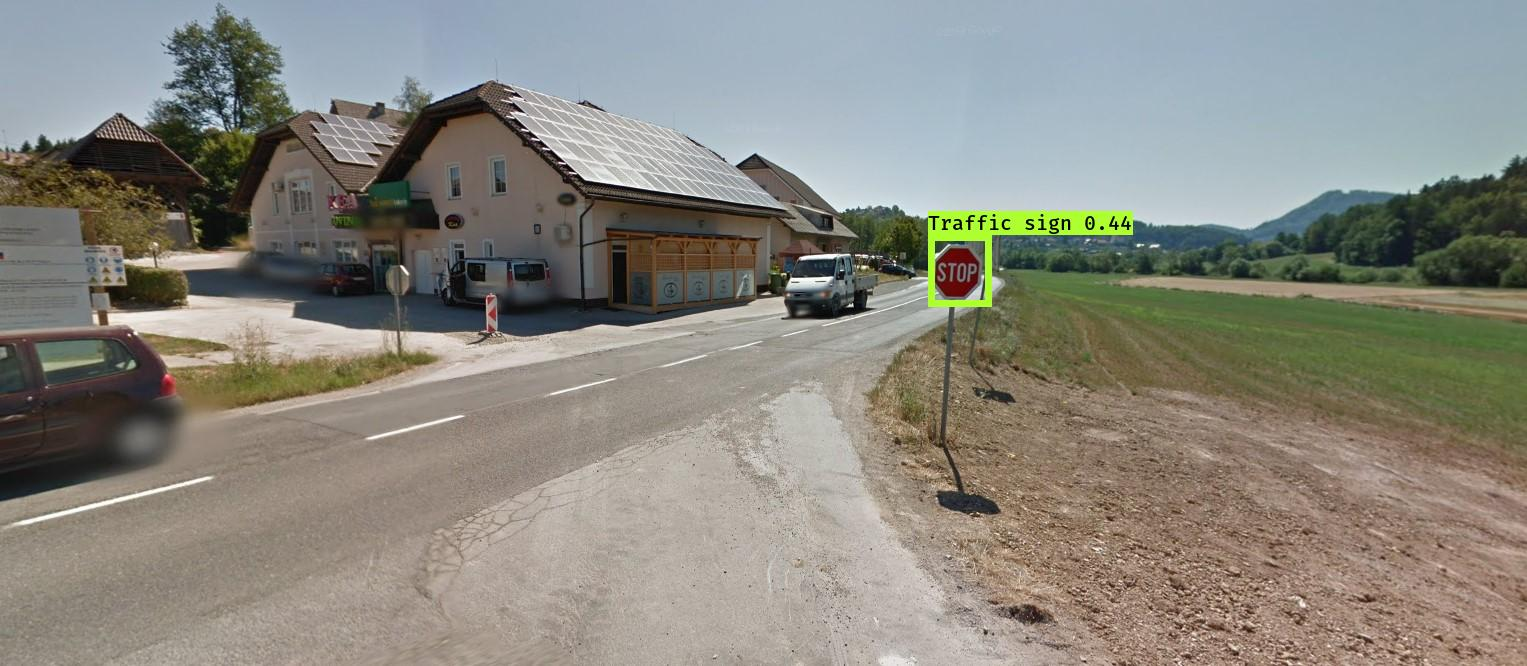
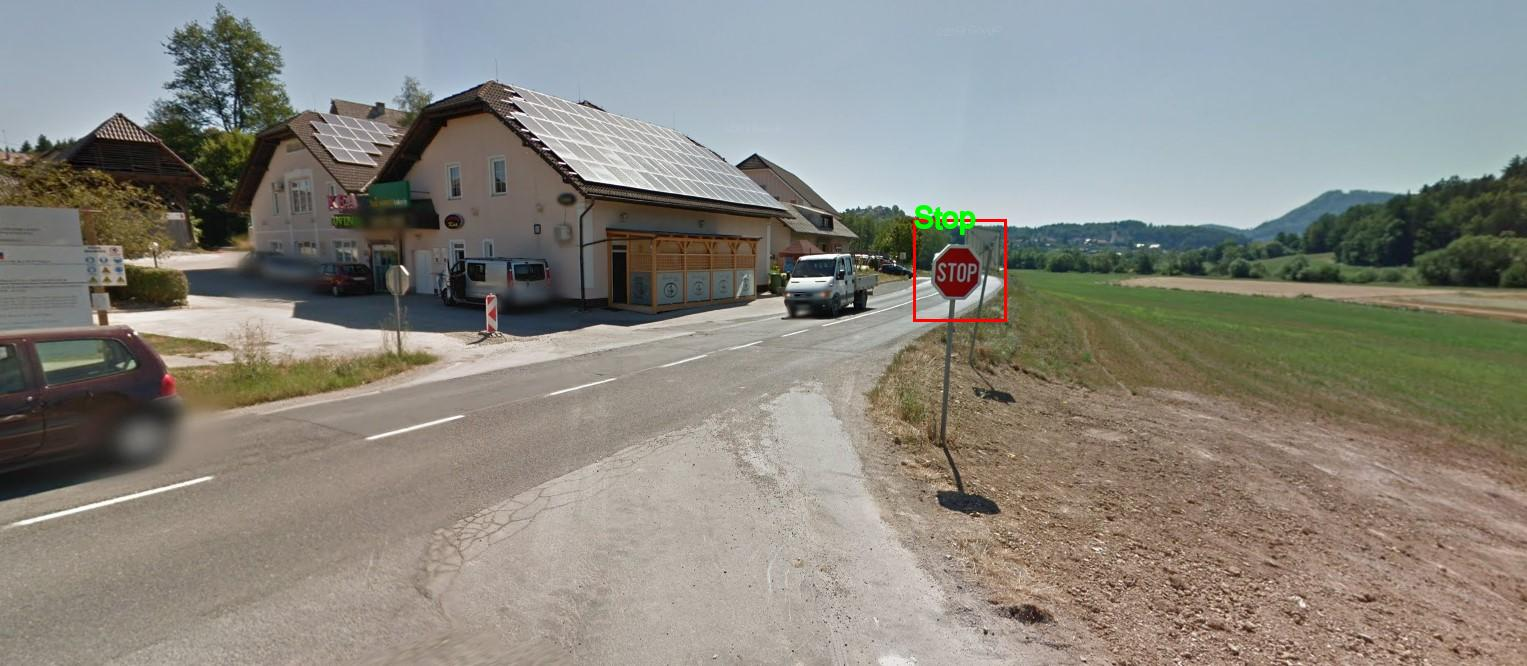
test123

Changed region(s): [[0.5848, 0.3003, 0.7695, 0.5105]]

diff --git a/ImageDetector.py b/ImageDetector.py
@@ -2,7 +2,7 @@ import os
 import sys
 import argparse
 from Training.src.keras_yolo3.yolo import YOLO
-from PIL import Image
+from PIL import Image, ImageDraw, ImageFont
 from timeit import default_timer as timer
 from Utils.utils import load_extractor_model, load_features, parse_input, detect_object
 import test
@@ -12,6 +12,9 @@ import numpy as np
 from Utils.Get_File_Paths import GetFileList
 import random
 from Utils.Train_Utils import get_anchors
+
+from keras.models import load_model
+
 
 yolo_tresh = 0.3
 
@@ -26,6 +29,54 @@ model_folder = os.path.join(data_folder, "Model_Weights")
 model_weights = os.path.join(model_folder, "PrometniZnaki.h5")
 model_classes = os.path.join(model_folder, "data_classes.txt")
 anchors_path = os.path.join(src_path, "keras_yolo3", "model_data", "yolo_anchors.txt")
+
+#model klasifikacije
+klas_model = load_model('Data/Model_Weights/klas_prometni.h5')
+
+#klas
+classes = { 1:'Speed limit (20km/h)',
+            2:'Speed limit (30km/h)', 
+            3:'Speed limit (50km/h)', 
+            4:'Speed limit (60km/h)', 
+            5:'Speed limit (70km/h)', 
+            6:'Speed limit (80km/h)', 
+            7:'End of speed limit (80km/h)', 
+            8:'Speed limit (100km/h)', 
+            9:'Speed limit (120km/h)', 
+            10:'No passing', 
+            11:'No passing veh over 3.5 tons', 
+            12:'Right-of-way at intersection', 
+            13:'Priority road', 
+            14:'Yield', 
+            15:'Stop', 
+            16:'No vehicles', 
+            17:'Veh > 3.5 tons prohibited', 
+            18:'No entry', 
+            19:'General caution', 
+            20:'Dangerous curve left', 
+            21:'Dangerous curve right', 
+            22:'Double curve', 
+            23:'Bumpy road', 
+            24:'Slippery road', 
+            25:'Road narrows on the right', 
+            26:'Road work', 
+            27:'Traffic signals', 
+            28:'Pedestrians', 
+            29:'Children crossing', 
+            30:'Bicycles crossing', 
+            31:'Beware of ice/snow',
+            32:'Wild animals crossing', 
+            33:'End speed + passing limits', 
+            34:'Turn right ahead', 
+            35:'Turn left ahead', 
+            36:'Ahead only', 
+            37:'Go straight or right', 
+            38:'Go straight or left', 
+            39:'Keep right', 
+            40:'Keep left', 
+            41:'Roundabout mandatory', 
+            42:'End of no passing', 
+            43:'End no passing veh > 3.5 tons' }
 
 # dobi vse slike za test
 input_paths = GetFileList(image_test_folder)
@@ -43,6 +94,18 @@ for item in input_paths:
 output_path = detection_results_folder
 if not os.path.exists(output_path):
         os.makedirs(output_path)
+
+def classify(image):
+    global label_packed
+    cimage1 = image.resize((30,30))
+    cimage1 = np.expand_dims(cimage1, axis=0)
+    cimage1 = np.array(cimage1)
+    pred = klas_model.predict_classes([cimage1])[0]
+    sign = classes[pred+1]
+    print(sign + '\n')
+    return sign
+
+
 
 # Yolo model
 yolo = YOLO(**{
@@ -93,7 +156,8 @@ if input_image_paths:
             print("File Open Error! Try again!")
 
         print("Na sliki {} je bilo zaznanih {} prometnih znakov\n".format(img_name, len(prediction)))
-
+        labels = []
+        count = 0
         # Zanka za ustvarjanje datafraima za vsako predikcijo na trenutni sliki
         for single_prediction in prediction:   
             out_df = out_df.append(pd.DataFrame([[img_name, img_path.rstrip("\n"),]
@@ -113,8 +177,31 @@ if input_image_paths:
                         "y_size",
                     ],))
             if single_prediction[5] > yolo_tresh:
-                cimage  =  image.crop((single_prediction[0], single_prediction[1], single_prediction[2], single_prediction[3]))
-                cimage.show()
+                cimage  =  image.crop((single_prediction[0]-3, single_prediction[1]-3, single_prediction[2]+3, single_prediction[3]+3))
+                label = classify(cimage)
+                img_name_test = img_name.replace(".jpg", "")
+                cimage.save(os.path.join(detection_results_folder, "Croped_Out", (img_name_test + "_" + str(count) + ".jpg")))
+                labels.append(label)
+                count = count +1
+                
+
+
+        j = 0
+        for single_prediction in prediction:
+            if single_prediction[5] > yolo_tresh:
+                image_edit = ImageDraw.Draw(image)
+                image_edit.rectangle((single_prediction[0]-15, single_prediction[1]-15, single_prediction[2]+15, single_prediction[3]+15), outline = "red", width = 3)
+                font = ImageFont.truetype("arial.ttf", size = 30)
+                image_edit.text((single_prediction[0]-15, single_prediction[1]-35), labels[j], fill = (0,255,0,0), font = font, stroke_width = 1)
+                j = j + 1
+        
+
+        image.show()
+        output_image_path = os.path.join(detection_results_folder, img_name)
+        image.save(output_image_path)
+
+
+
 
     end = timer()
     print("Processed {} images in {:.1f}sec - {:.1f}FPS".format(len(input_image_paths), end - start, len(input_image_paths) / (end - start)))
